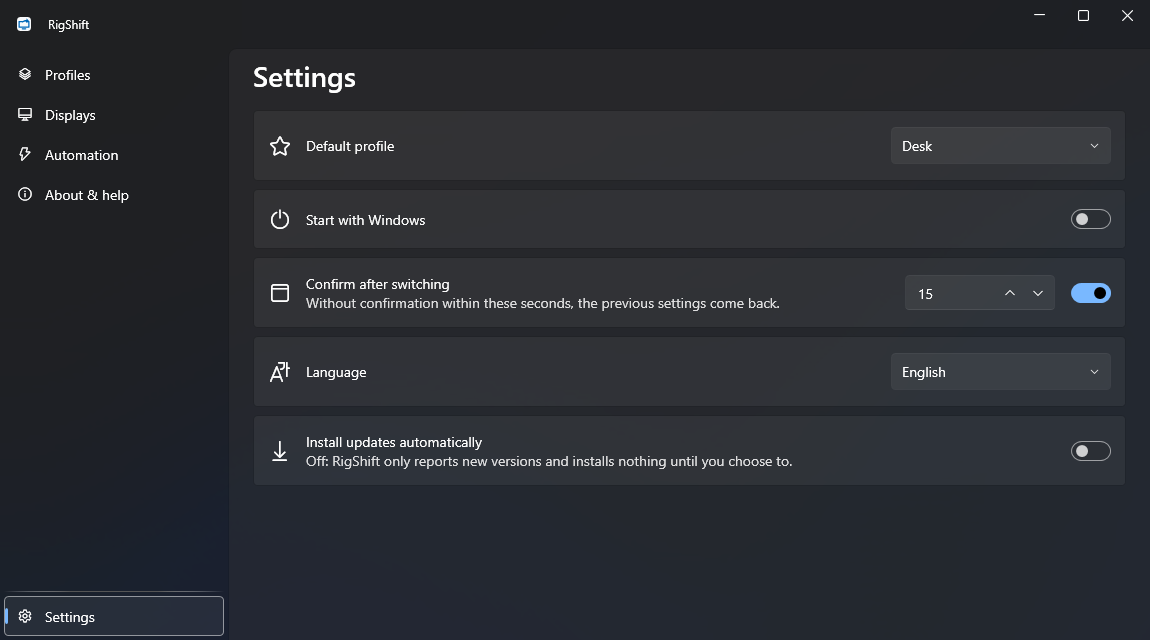
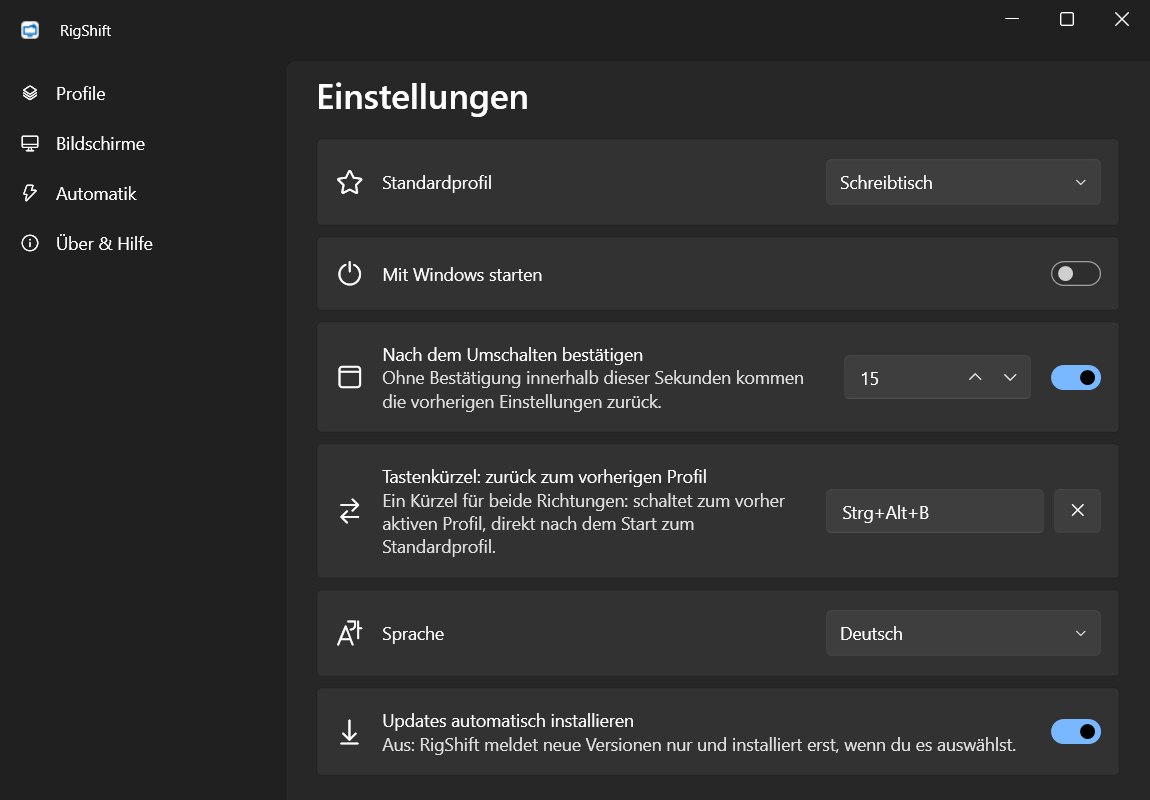
docs: previous profile, backup and full-screen guard in README, roadmap and plan

diff --git a/docs/PLAN.md b/docs/PLAN.md
@@ -659,6 +659,30 @@ Erkennen auf mehreren Bildschirmen mit unterschiedlicher Skalierung → Gaming-P
 
 Versionsentscheidung 2026-09-15 (User): Assistent und GPU-Anpassung erscheinen als **1.6.0**, nicht als 2.0.
 
+**Recherche 2026-09-15 für 1.7.0** (zweiter Blick auf DisplayMagician, DisplayProfileManager, MonitorSwitcher,
+Monitor Profile Switcher, SoundSwitch): keines hat eine Funktion, die RigShift fehlt und zum Kern passt; die
+meistgewünschten Punkte dort (HDR, Hotkeys, Bestätigungs-Timer, Programme vor dem Start) sind schon drin. Die Lücken
+kommen aus dem Rig-Alltag. Vom User gewählt und umgesetzt:
+
+18. **Vollbild-Schutz.** Die Ende-Aktion einer USB-Regel wartet, solange eine Vollbild-Anwendung läuft
+    (`SHQueryUserNotificationState`: BUSY, D3D-Vollbild, Präsentation, Store-App) – ein USB-Aussetzer der Wheelbase
+    mitten im Rennen darf nicht auf den Schreibtisch schalten. Nur verschoben, nicht verworfen: nach Spielende feuert
+    sie; kommt das Gerät vorher zurück, gilt wie bisher „DeviceBack“. Immer an, im Log als `ExitHeld` (einmal je
+    Wartezeit). Start-Aktionen sind nicht betroffen.
+19. **Vorheriges Profil.** Ein Kürzel für beide Richtungen (Einstellungen), dazu CLI `toggle` und
+    `rigshift://toggle`. Ziel = vorher aktives Profil (`ProfileCatalog.PreviousProfileId`, nicht persistiert), sonst
+    Standardprofil, wenn es nicht aktiv ist, sonst nichts (Log, CLI-Exit 4). Logik in `ProfileEditing.ToggleTarget`,
+    Ziel über `IProfileSwitcher.ToggleTarget` geteilt.
+20. **Sicherung.** Über & Hilfe: „Sicherung speichern…“ schreibt `profiles/*.json` + `settings.json` als ZIP,
+    „Sicherung wiederherstellen…“ prüft das Archiv (`BackupArchive.Inspect`, nur bekannte Einträge, Profil-JSON
+    muss lesbar sein, kein neueres Schema), fragt nach, ersetzt alles und lädt Einstellungen und Profile im laufenden
+    Programm neu. Profildateien werden unter der ID im Inhalt geschrieben, nie unter dem Archivnamen (Zip-Slip).
+    Motivation: das Velopack-Setup hat hier schon einmal einen Datenordner geleert.
+
+**Abgelehnt** (User): Bestätigung per Lenkrad-/Controller-Taste. **Nicht empfohlen:** Wallpaper/Taskleiste pro
+Profil, DPI-Skalierung (merkt Windows je Bildschirm), App-Lautstärken, reine Audio-Kurzprofile, DDC/CI, Stream-Deck-
+Plugin, weitere Sprachen (nur als Community-Anleitung).
+
 ---
 
 ## 7. Teststrategie

diff --git a/docs/ROADMAP.md b/docs/ROADMAP.md
@@ -60,3 +60,15 @@ Dropped after a scope review (the tool should stay small):
 - 🟢 Head-budget warning only for NVIDIA cards (1.6.0)
 - ⚪ AMD / Intel limits from community reports, then per-GPU head-budget presets
 - ❌ winget – not planned for now; the installer and the portable ZIP on GitHub stay the way to get RigShift
+
+## v1.7 – rig-day details
+
+Chosen after a second look at comparable tools (DisplayMagician, DisplayProfileManager, MonitorSwitcher): none of
+their extra features fit the core, so the additions come from rig use itself.
+
+- 🟢 No automatic switch back while a full-screen game is running – a USB hiccup mid-race changes nothing (1.7.0)
+- 🟢 Back to the previous profile: one hotkey, `toggle` on the command line, `rigshift://toggle` (1.7.0)
+- 🟢 Backup and restore of profiles, rules and settings as one ZIP file (1.7.0)
+- ❌ Confirm the countdown with a wheel or controller button – not wanted
+- ❌ Wallpaper or taskbar per profile, DPI scaling, per-app volume, audio-only profiles, DDC/CI monitor inputs, a
+  Stream Deck plugin – outside the core or covered by what exists

diff --git a/CLAUDE.md b/CLAUDE.md
@@ -54,7 +54,9 @@ von `docs/analysis/umsetzungsplan-1.3.md`), README-Screenshots aus Demo-Daten ne
 anwenden“, wenn Windows die Anordnung selbst herstellt (HW-15); Tabelle „Umsetzung 1.5.0“ am Ende von
 `docs/analysis/umsetzungsplan-1.3.md`. **1.6.0** (2026-09-15, ohne Hardwaretest): Einrichtungsassistent
 (`SetupWizardViewModel`, Plan Punkt 13) und Head-Budget-Warnung nur für NVIDIA (`GpuVendors`, Punkt 16 Teil 1); winget
-gestrichen. Hardwaretests nur noch bei Meldungen; AMD/Intel-Grenzen warten auf Community-Rückmeldungen.
+gestrichen. **1.7.0** (2026-09-15, ohne Hardwaretest): Vollbild-Schutz für die Ende-Aktion (`IFullscreenCheck`, Plan Punkt 18),
+vorheriges Profil per Hotkey/`toggle`/`rigshift://toggle` (Punkt 19), Sicherung als ZIP (`BackupArchive`, Punkt 20).
+Hardwaretests nur noch bei Meldungen; AMD/Intel-Grenzen warten auf Community-Rückmeldungen.
 Protokolle M5/M6: `docs/PLAN.md`, Abschnitt 5.
 
 M5-Testaufbau (für Nachtests): hier `dotnet publish src/RigShift.App -c Release`, per `scp` nach

diff --git a/README.md b/README.md
@@ -56,11 +56,14 @@ see no picture after a switch, it simply switches back after a few seconds.
   detected. Pick them from a searchable list of installed and running programs.
 - **Nothing gets lost:** windows left on a screen that is now off move to the main screen.
 - **Race-ready:** keep the PC awake while you only use the wheel, keep game sound loud during Discord calls, and get a
-  warning when Windows may cut power to your USB sim hardware.
+  warning when Windows may cut power to your USB sim hardware. If the wheelbase drops off USB mid-race, nothing
+  switches back until the game closes.
 
 **Control it your way**
 
-- Tray icon, a keyboard shortcut per profile, Stream Deck or button box, `rigshift://` links and a command line.
+- Tray icon, a keyboard shortcut per profile or one for "back to the previous profile", Stream Deck or button box,
+  `rigshift://` links and a command line.
+- **Backup:** save profiles, rules and settings as one ZIP file and restore them on a new PC.
 
 ## Screenshots
 
